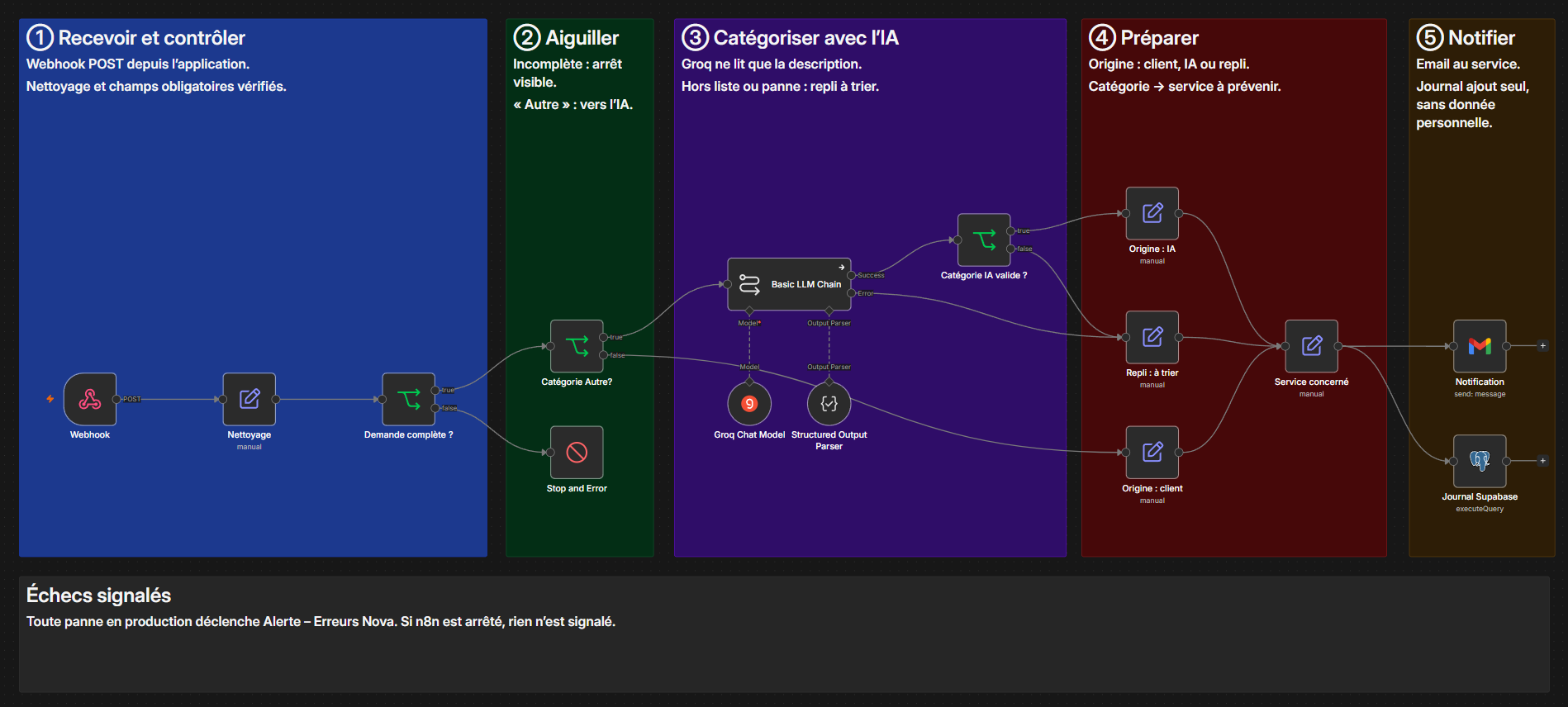
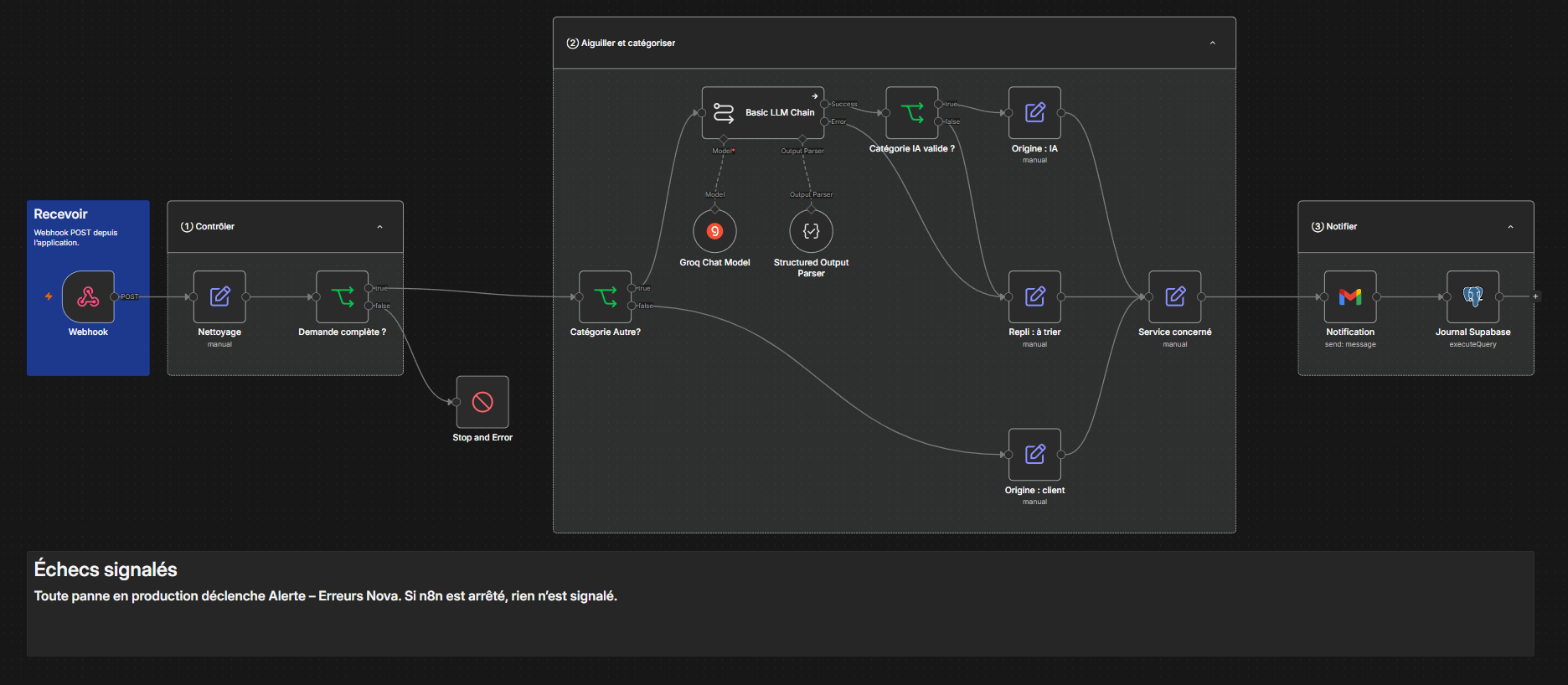
Fiche n8n : workflow en trois blocs repliables (v3.4), capture à jour

diff --git a/projets/n8n-reception-demandes/README.md b/projets/n8n-reception-demandes/README.md
@@ -10,7 +10,7 @@
 
 *Statut : prototype de formation. Le workflow est hébergé sur un serveur OVHcloud (Francfort, Union européenne), en HTTPS, avec un webhook protégé par une clé ; il a été testé par des requêtes envoyées sur son adresse de production. L'application Nova ne l'appelle pas encore automatiquement.*
 
-![Le workflow dans l'éditeur n8n : réception, contrôle, IA si « Autre », repli, notification et journal](workflow.png)
+![Le workflow dans l'éditeur n8n, en trois blocs repliables : ① contrôler, ② aiguiller et catégoriser (IA si « Autre », repli), ③ notifier puis journaliser](workflow.png)
 
 ---
 
@@ -63,7 +63,7 @@ Règle retenue : **plus une erreur coûte cher, plus la validation humaine inter
 | **Groq** (modèle `openai/gpt-oss-20b`) | Rapide, offre gratuite suffisante pour le volume ; conditions annonçant l'absence d'entraînement sur les données transmises (à revérifier avant un usage réel) |
 | **Journal dans Postgres plutôt que Google Sheets** | Retour du mentor : une vraie base, reliée à la demande. Le journal vit dans la base de l'application (Supabase, région Paris), avec une clé étrangère vers la demande |
 
-**Évolution du projet** : v1 avec un journal Google Sheets, v2 avec la gestion des pannes et le workflow d'alerte, **v3 avec le journal Postgres** après la revue du mentor.
+**Évolution du projet** : v1 avec un journal Google Sheets, v2 avec la gestion des pannes et le workflow d'alerte, **v3 avec le journal Postgres** après la revue du mentor, puis (v3.4) étapes regroupées en trois blocs repliables et commentés pour la lisibilité, la notification et le journal étant désormais enchaînés.
 
 ## 6. Qualité, sécurité, données personnelles
 
